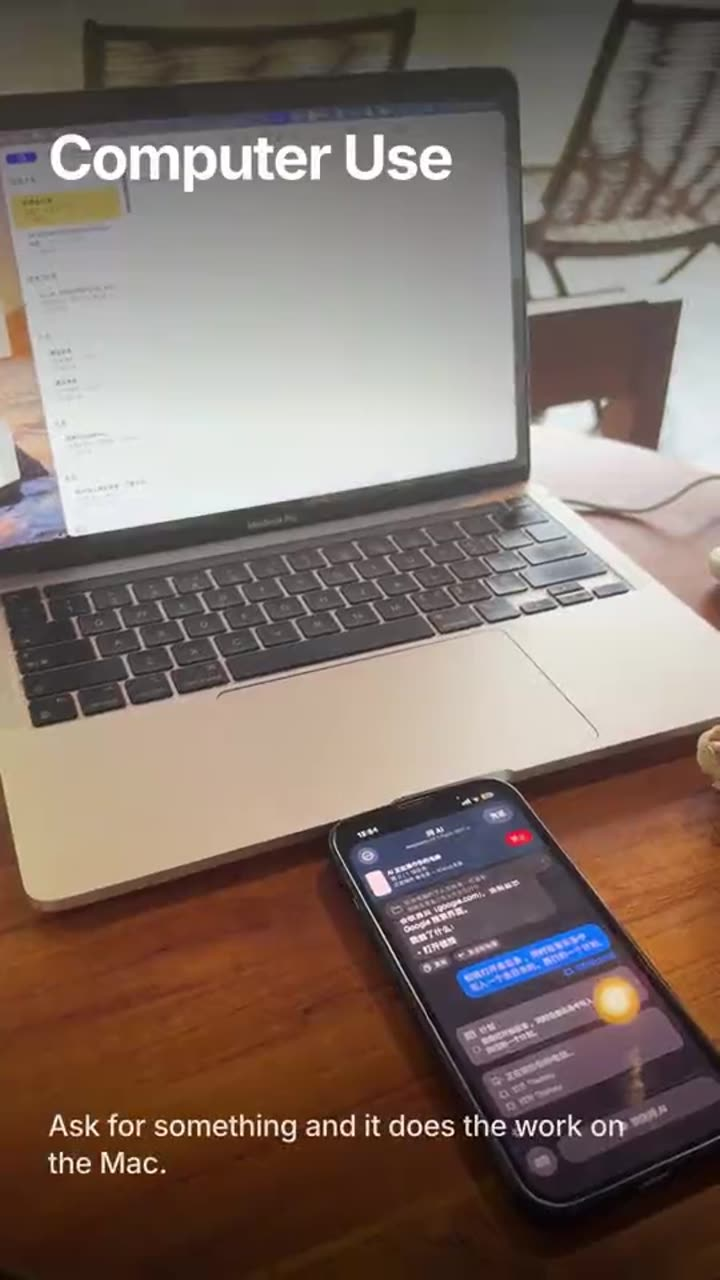
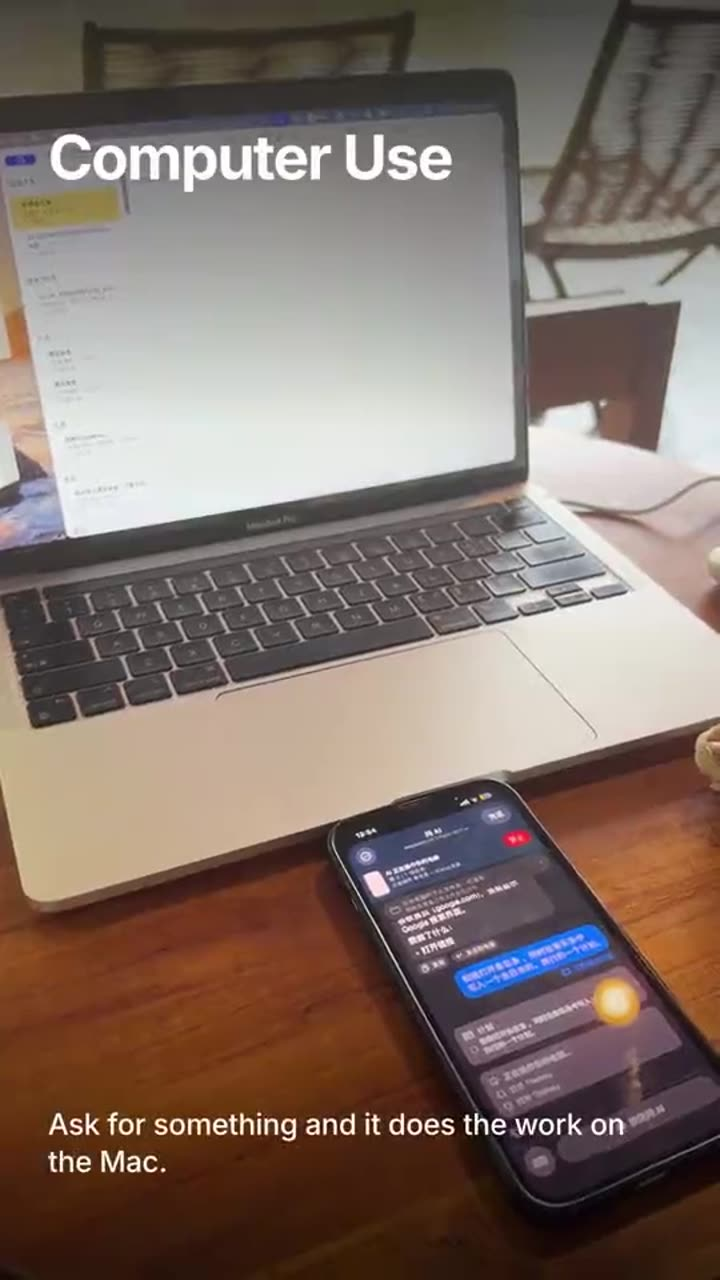
feat(remotecrab): 用上 computer-use 那条素材
deliverables-ads 里的 computer-use v2（21 秒，结尾有一张白底卡）裁到 16.4 秒，
出中英两版网页片（540p / 无音 / faststart）放进「你不在电脑前」那一节。

注意这条素材是场景镜头（笔记本 + 手里举着手机 + 字幕「说一句，它就在电脑上做完」），
不是屏幕录制，所以它证明的是「这个处境」，不是「AI 在界面上点了什么」。

diff --git a/src/pages/RemoteCrabPage.tsx b/src/pages/RemoteCrabPage.tsx
@@ -184,16 +184,33 @@ export default function RemoteCrabPage() {
         {/* 你不在电脑前的时候 —— 三个场景，卖的是处境不是功能 */}
         <section id="remote" className="px-6 py-16 scroll-mt-20">
           <div className="mx-auto max-w-6xl">
-            <motion.span {...fade()} className="text-xs uppercase tracking-[0.14em] text-vgo-secondary">
-              {h.remote.kicker}
-            </motion.span>
-            <motion.h2 {...fade(0.05)} className="mt-3 max-w-3xl text-3xl font-bold md:text-4xl">
-              {h.remote.title}
-            </motion.h2>
-            <motion.p {...fade(0.1)} className="mt-4 max-w-2xl text-vgo-muted">
-              {h.remote.lead}
-            </motion.p>
-            <motion.div {...fade(0.15)}>
+            <div className="grid items-center gap-10 md:grid-cols-[1fr_360px]">
+              <div>
+                <motion.span {...fade()} className="text-xs uppercase tracking-[0.14em] text-vgo-secondary">
+                  {h.remote.kicker}
+                </motion.span>
+                <motion.h2 {...fade(0.05)} className="mt-3 max-w-2xl text-3xl font-bold md:text-4xl">
+                  {h.remote.title}
+                </motion.h2>
+                <motion.p {...fade(0.1)} className="mt-4 max-w-xl text-vgo-muted">
+                  {h.remote.lead}
+                </motion.p>
+              </div>
+              <motion.div {...fade(0.15)}>
+                <Stage
+                  language={language}
+                  name="clip-computer-use"
+                  caption={language === 'zh' ? '说一句，它在电脑上做完' : 'Say it; it gets done on the computer'}
+                  onOpen={() =>
+                    setClip({
+                      name: 'clip-computer-use',
+                      caption: language === 'zh' ? '说一句，它在电脑上做完' : 'Say it; it gets done on the computer',
+                    })
+                  }
+                />
+              </motion.div>
+            </div>
+            <motion.div {...fade(0.2)}>
               <RemoteScenarios c={h.remote} />
             </motion.div>
           </div>
